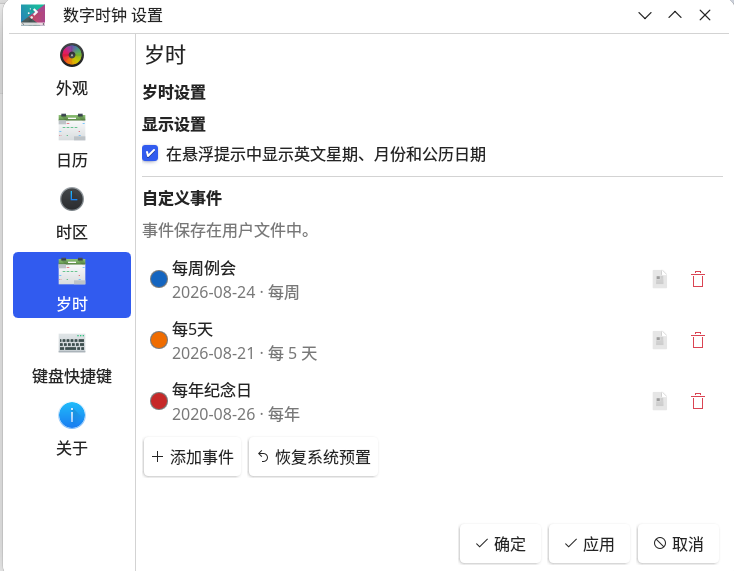
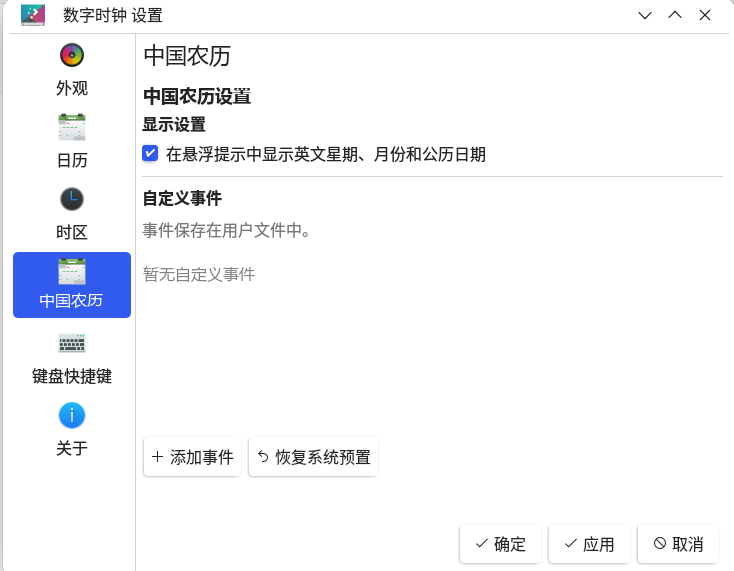
refactor: rename project to Chinese Lunar Calendar for KDE

diff --git a/src/eventsconfig.qml b/src/eventsconfig.qml
@@ -4,7 +4,7 @@ import QtQuick.Dialogs
 import QtQuick.Layouts
 import org.kde.kirigami as Kirigami
 import org.kde.kcmutils as KCMUtils
-import org.kde.plasma.private.locallunarcalendar 1.0
+import org.kde.plasma.private.chineselunarcalendar 1.0
 
 KCMUtils.SimpleKCM {
     id: root
@@ -152,7 +152,7 @@ KCMUtils.SimpleKCM {
         Controls.Label {
             text: root.editingForm
                   ? (root.editingId.length === 0 ? "添加事件" : "编辑事件")
-                  : "岁时设置"
+                  : "中国农历设置"
             font.bold: true
             Layout.fillWidth: true
         }

diff --git a/src/lunarcalendarplugin.cpp b/src/lunarcalendarplugin.cpp
@@ -15,7 +15,7 @@
 #include <QStringList>
 #include <qqml.h>
 
-#include "suishisettings.h"
+#include "chineselunarcalendarsettings.h"
 
 using SubLabel = CalendarEvents::CalendarEventsPlugin::SubLabel;
 using SubLabelPriority = CalendarEvents::CalendarEventsPlugin::SubLabelPriority;
@@ -39,7 +39,7 @@ LunarCalendarPlugin::LunarCalendarPlugin(QObject *parent)
     : CalendarEventsPlugin(parent)
 {
     static const int customEventsModelTypeId = qmlRegisterType<CustomEventsModel>(
-        "org.kde.plasma.private.locallunarcalendar", 1, 0, "CustomEventsModel");
+        "org.kde.plasma.private.chineselunarcalendar", 1, 0, "CustomEventsModel");
     Q_UNUSED(customEventsModelTypeId);
 }
 
@@ -53,7 +53,7 @@ void LunarCalendarPlugin::loadEventsForDateRange(const QDate &startDate, const Q
         return;
     }
 
-    m_showEnglishDate = SuishiSettings::showEnglishDate();
+    m_showEnglishDate = ChineseLunarCalendarSettings::showEnglishDate();
 
     const QString previousCustomEventsError = m_customEvents.errorString();
     QString customEventsError;
@@ -157,13 +157,13 @@ QList<EventData> LunarCalendarPlugin::eventsForDate(const DateInfo &info, const 
             addHolidayEvent(info.solarTerm,
                             QStringLiteral("节气 · %1").arg(lunarFull),
                             m_colors.colorFor(EventColors::Kind::SolarTerm),
-                            QStringLiteral("suishi-solarterm-%1").arg(dateKey));
+                            QStringLiteral("chineselunarcalendar-solarterm-%1").arg(dateKey));
         }
         if (!info.festival.isEmpty()) {
             addHolidayEvent(info.festival,
                             QStringLiteral("传统节日 · %1").arg(lunarFull),
                             m_colors.colorFor(EventColors::Kind::Festival),
-                            QStringLiteral("suishi-festival-%1").arg(dateKey));
+                            QStringLiteral("chineselunarcalendar-festival-%1").arg(dateKey));
         }
         if (info.workday) {
             const bool isWorkday = info.workday->kind == WorkdayEntry::Kind::Workday;
@@ -171,7 +171,7 @@ QList<EventData> LunarCalendarPlugin::eventsForDate(const DateInfo &info, const 
             addHolidayEvent(QStringLiteral("%1：%2").arg(marker, info.workday->name),
                             isWorkday ? QStringLiteral("调休上班") : QStringLiteral("假期"),
                             m_colors.colorFor(isWorkday ? EventColors::Kind::Workday : EventColors::Kind::DayOff),
-                            QStringLiteral("suishi-%1-%2").arg(isWorkday ? QStringLiteral("workday") : QStringLiteral("dayoff"), dateKey));
+                            QStringLiteral("chineselunarcalendar-%1-%2").arg(isWorkday ? QStringLiteral("workday") : QStringLiteral("dayoff"), dateKey));
         }
     }
 
@@ -180,14 +180,14 @@ QList<EventData> LunarCalendarPlugin::eventsForDate(const DateInfo &info, const 
         const QString description = customEvent.description.trimmed();
         event.setTitle(customEvent.name);
         event.setDescription(description.isEmpty()
-                                 ? QStringLiteral("岁时自定义事件")
+                                 ? QStringLiteral("中国农历自定义事件")
                                  : description);
         event.setStartDateTime(date.startOfDay());
         event.setEndDateTime(date.startOfDay());
         event.setIsAllDay(true);
         event.setEventType(EventData::Event);
         event.setEventColor(customEvent.color);
-        event.setUid(QStringLiteral("suishi-custom-%1").arg(customEvent.id));
+        event.setUid(QStringLiteral("chineselunarcalendar-custom-%1").arg(customEvent.id));
         events.append(event);
     }
     return events;

diff --git a/src/chineselunarcalendarsettings.cpp b/src/chineselunarcalendarsettings.cpp
@@ -3,7 +3,7 @@
     SPDX-License-Identifier: GPL-2.0-or-later
 */
 
-#include "suishisettings.h"
+#include "chineselunarcalendarsettings.h"
 
 #include <QDir>
 #include <QFileInfo>
@@ -18,7 +18,7 @@ QString settingsFilePath()
     if (configLocation.isEmpty()) {
         configLocation = QDir::homePath() + QStringLiteral("/.config");
     }
-    return QDir(configLocation).filePath(QStringLiteral("suishi/settings.ini"));
+    return QDir(configLocation).filePath(QStringLiteral("chinese-lunar-calendar/settings.ini"));
 }
 
 void ensureSettingsDirectory(const QString &filePath)
@@ -28,7 +28,7 @@ void ensureSettingsDirectory(const QString &filePath)
 
 } // namespace
 
-bool SuishiSettings::showEnglishDate()
+bool ChineseLunarCalendarSettings::showEnglishDate()
 {
     QSettings settings(settingsFilePath(), QSettings::IniFormat);
     settings.beginGroup(QStringLiteral("Appearance"));
@@ -37,7 +37,7 @@ bool SuishiSettings::showEnglishDate()
     return enabled;
 }
 
-void SuishiSettings::setShowEnglishDate(bool enabled)
+void ChineseLunarCalendarSettings::setShowEnglishDate(bool enabled)
 {
     const QString filePath = settingsFilePath();
     ensureSettingsDirectory(filePath);

diff --git a/src/customeventsconfig.cpp b/src/customeventsconfig.cpp
@@ -5,7 +5,7 @@
 
 #include "customeventsconfig.h"
 
-#include "suishisettings.h"
+#include "chineselunarcalendarsettings.h"
 
 #include <algorithm>
 #include <iterator>
@@ -90,7 +90,7 @@ bool eventFromInput(const QString &id,
 
 CustomEventsModel::CustomEventsModel(QObject *parent)
     : QAbstractListModel(parent)
-    , m_showEnglishDate(SuishiSettings::showEnglishDate())
+    , m_showEnglishDate(ChineseLunarCalendarSettings::showEnglishDate())
 {
     reload();
 }
@@ -172,7 +172,7 @@ void CustomEventsModel::setShowEnglishDate(bool enabled)
         return;
     }
 
-    SuishiSettings::setShowEnglishDate(enabled);
+    ChineseLunarCalendarSettings::setShowEnglishDate(enabled);
     m_showEnglishDate = enabled;
     Q_EMIT showEnglishDateChanged();
 }

diff --git a/src/eventcolors.h b/src/eventcolors.h
@@ -8,7 +8,7 @@
 #include <QHash>
 #include <QString>
 
-// 岁时日历事件的配色。默认值内置，可被
+// 中国农历日历事件的配色。默认值内置，可被
 // lunarcalendar/eventcolors.json（XDG 数据目录，用户级覆盖优先）替换。
 class EventColors
 {

diff --git a/src/chineselunarcalendarsettings.h b/src/chineselunarcalendarsettings.h
@@ -5,10 +5,10 @@
 
 #pragma once
 
-class SuishiSettings final
+class ChineseLunarCalendarSettings final
 {
 public:
-    SuishiSettings() = delete;
+    ChineseLunarCalendarSettings() = delete;
 
     static bool showEnglishDate();
     static void setShowEnglishDate(bool enabled);

diff --git a/README.md b/README.md
@@ -1,6 +1,6 @@
-# 岁时（Suishi）
+# Chinese Lunar Calendar for KDE
 
-KDE Plasma 6 的农历日历扩展。它不额外创建日历窗口，而是直接增强系统数字时钟的月历：在每个阳历日期下方显示农历、节气、节日与调休信息。
+KDE Plasma 6 的中国农历日历插件。它不额外创建日历窗口，而是直接增强系统数字时钟的月历：在每个阳历日期下方显示农历、节气、节日与调休信息。
 
 ## 功能
 
@@ -43,11 +43,11 @@ systemctl --user restart plasma-plasmashell.service
 
    <img src="screenshot/选择配置.png" width="400">
 
-2. 在左侧选择"日历"，勾选"岁时"
+2. 在左侧选择"日历"，勾选"中国农历"
 
-   <img src="screenshot/选择岁时.png" width="400">
+   <img src="screenshot/选择中国农历.png" width="400">
 
-启用后配置对话框会出现"岁时"页签，用于管理显示设置与自定义事件。
+启用后配置对话框会出现"中国农历"页签，用于管理显示设置与自定义事件。
 
 > 安装后第一次登录会弹出一次性提示，点击"立即启用"即可自动完成上述步骤。
 
